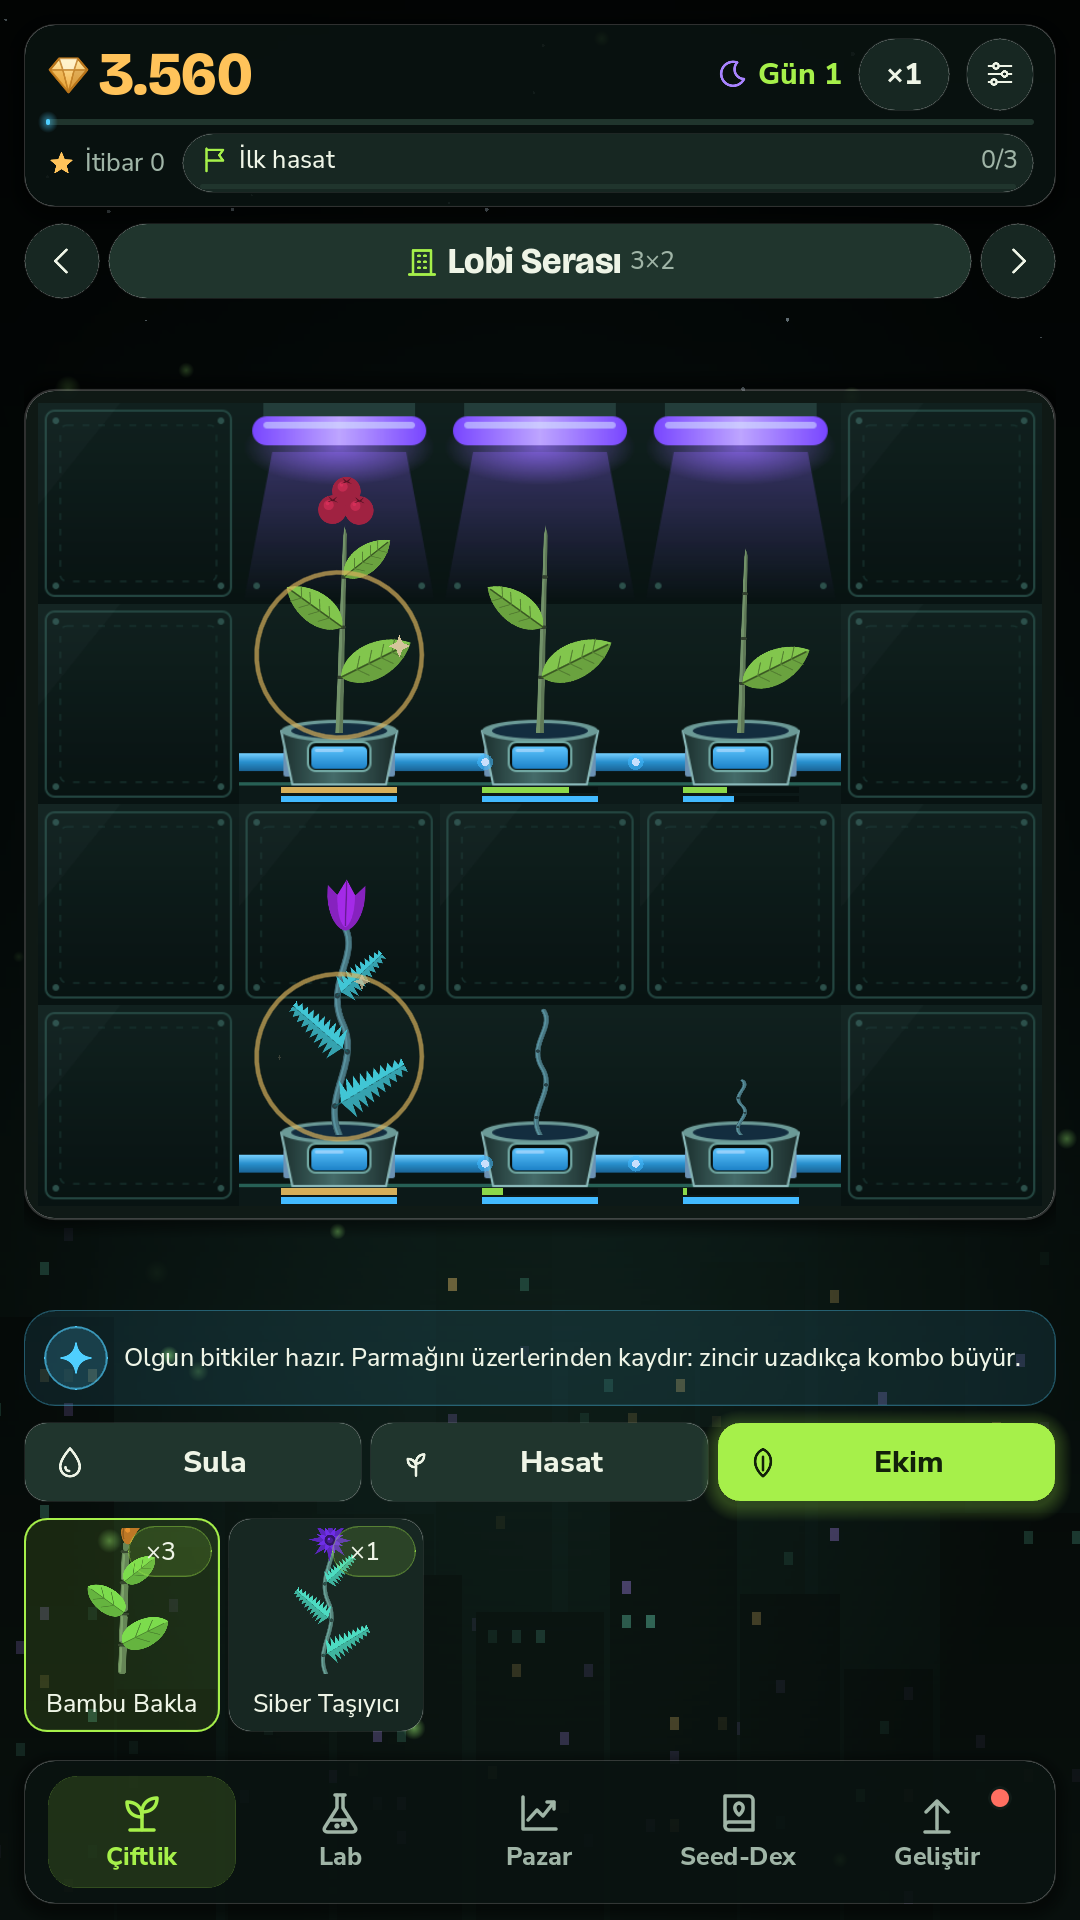
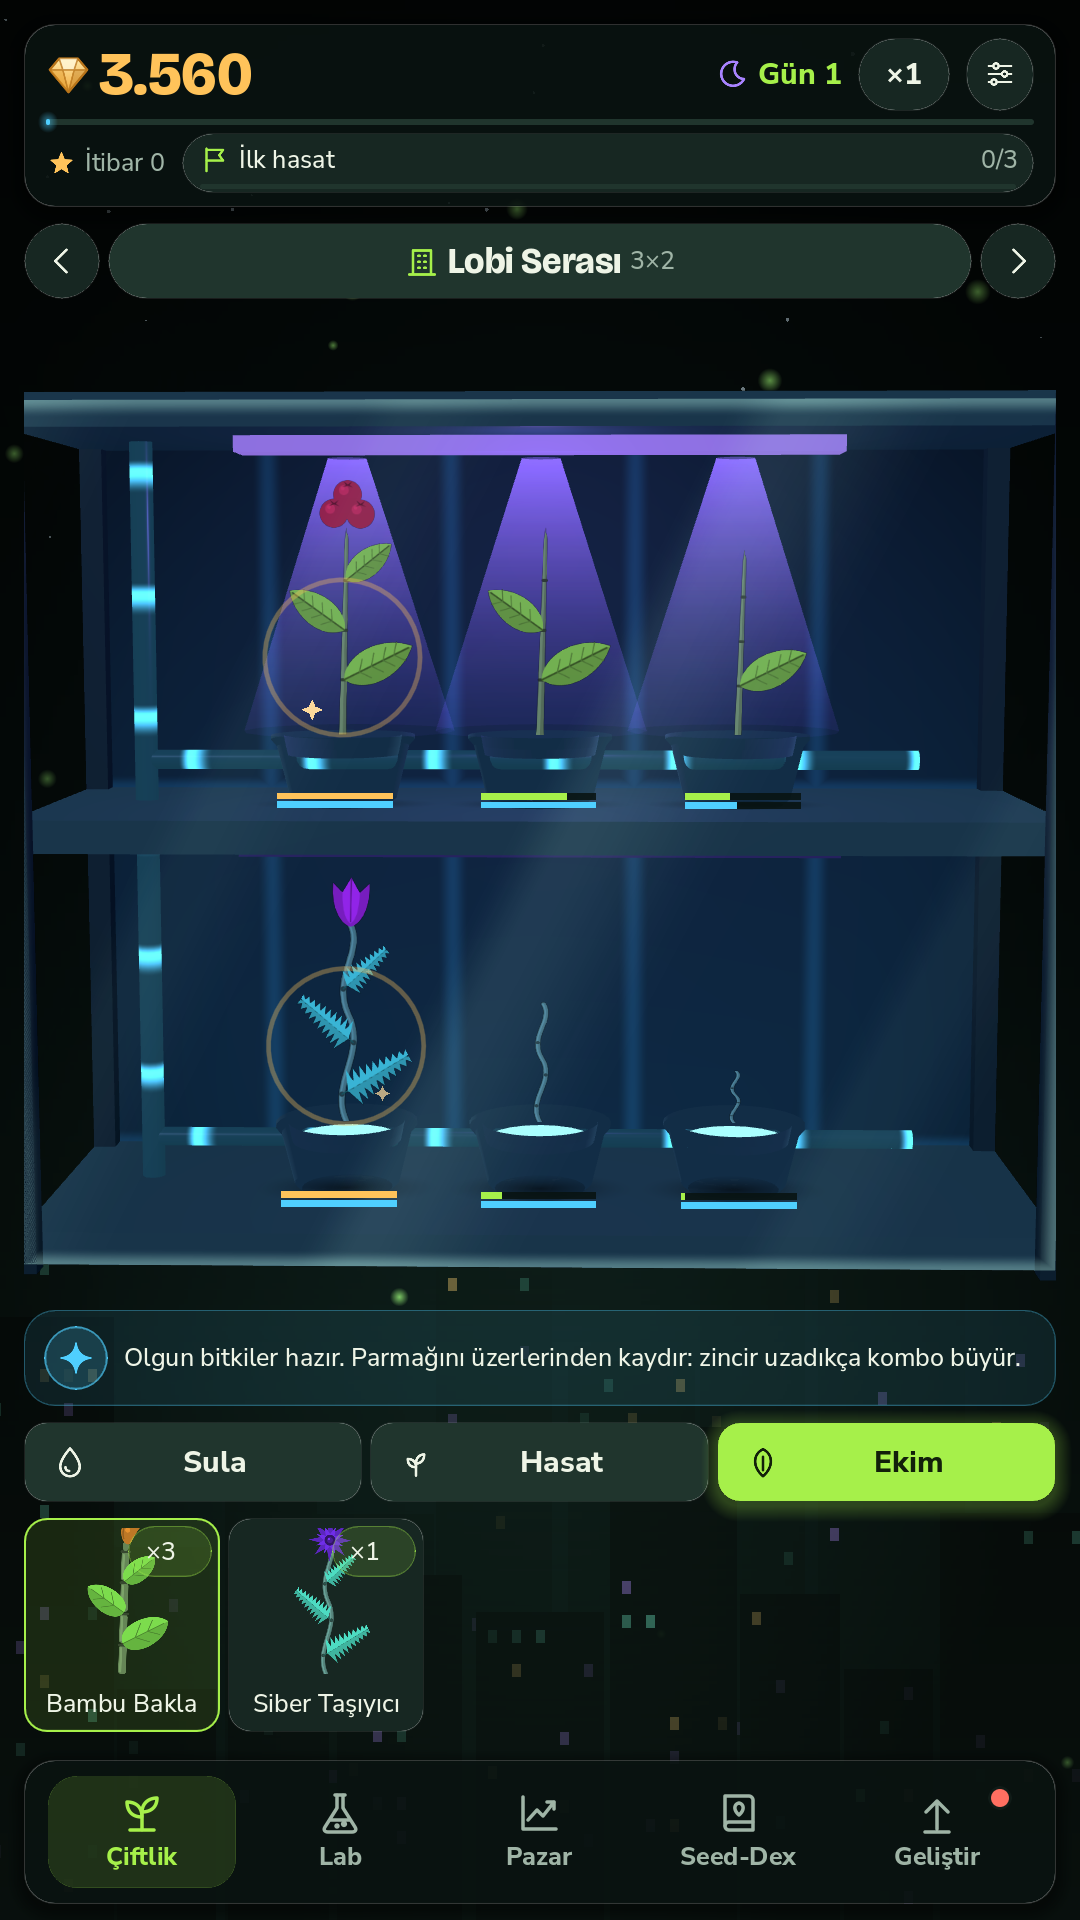
docs: 2.5D çiftlik kanıt kareleri (ara kayıt, seri sürüyor) ve README güncellemesi
Yeniden üretilen kareler (tr-farm, tr-tall-farm, renk körlüğü, hareketi azalt, vb.) ve yeni senaryolar için
yakalama betiği satırları. Kalan kareler seri bitince son kayıtta güncellenecek.

Design: design/design-language.md
Claude-Session: https://claude.ai/code/session_013ZaxZvaRMdf7SRdZhJwpiW

diff --git a/production/qa/evidence/ui-polish/README.md b/production/qa/evidence/ui-polish/README.md
@@ -1,6 +1,6 @@
 # Arayüz cila turu: görsel kanıt
 
-Kapsanan iş: tasarım dili ("Gece Serası", `design/design-language.md`), yeni yazı tipleri ve ikon seti, Türkçe + İngilizce, gün-gece manzarası, yeniden
+Kapsanan iş: 2.5D çiftlik sahnesi (3D geometri + perspektif kamera + ışık), tasarım dili ("Gece Serası", `design/design-language.md`), yeni yazı tipleri ve ikon seti, Türkçe + İngilizce, gün-gece manzarası, yeniden
 tasarlanan HUD / gezinme / çiftlik / lab / pazar / Seed-Dex / geliştir / ayarlar / hedefler / açılış kartı / çevrimdışı özeti. Hikâye dosyası yok
 (`minimal` kip): tasarım kaydı `design/game-brief.md` ve `design/design-language.md`, mimari `docs/architecture/floralab-architecture.md`.
 
@@ -14,7 +14,10 @@ Gerçek çizimle (başsız değil), GL Compatibility, `--write-movie` 75. karesi
 
 | Dosya | Ne gösteriyor |
 |---|---|
-| `tr-farm`, `en-farm` | Çiftlik: cam çerçeveli ızgara, akan sulama damlacıkları, olgun bitkide halka + ışıltı, FLORA ipucu, Sula/Hasat/Ekim, tohum tepsisi, hedef çipi |
+| `tr-farm`, `en-farm` | Çiftlik (2.5D sahne): cam kutu, raflar, torna profilli saksılar, akan sulama borusu, UV lambası huzmeleri, olgun bitkide halka + ışıltı, FLORA ipucu, Sula/Hasat/Ekim, tohum tepsisi, hedef çipi |
+| `tr-farm-day` | Aynı sahne gündüz ışığında (sıcak ortam ışığı, açık duvar) |
+| `en-farm-drones` | Hasat dronları: üs pedi, uçan dron, hasat parlaması ve kombo efektleri |
+| `tr-farm-tower` | 4×4 çatı katı: dört bölmeli kule, perspektif, UV lambaları |
 | `tr-lab`, `en-lab` | Lab: iki ebeveyn "kavanozu", DNA simgesi, çaprazlama düğmesi (fiyat çipli), FLORA ipucu |
 | `tr-market`, `en-market` | Pazar: fiyat tablosu (mini grafik + yüzde), borsa haberleri, ürün satırları, VIP sipariş biletleri |
 | `tr-dex`, `en-dex` | Seed-Dex: tamamlanma halkası, nadirlik çerçeveli kartlar, kilitli yer tutucular |
@@ -45,7 +48,10 @@ Gerçek çizimle (başsız değil), GL Compatibility, `--write-movie` 75. karesi
 8. **Görüntülerden bulunan iki kusur:** (a) HUD'daki yüzen "+N" kazancı, sayı hâlâ sayarken sayının üstüne biniyordu ("+4000" ile "4.160" iç içe); `CreditTag.final_width()` ile yan tarafa konuyor
    (`credit_tag_test.gd`, düzeltmeden önce başarısız görüldü). (b) Pazar'daki haber kartı etkin olayı hem ayrıntılı satırla hem "geçmiş" listesinde iki kez gösteriyordu;
    geçmiş artık yalnızca bitmiş olayları anıyor (`test_the_news_card_shows_an_active_headline_once_not_again_as_history`, düzeltmeden önce başarısız görüldü).
-9. **Sessiz oyun:** efektlerin altında çok alçak, dikişsiz bir sera uğultusu döngüsü eklendi (ses ayarına bağlı; `audio_service_ambience_test.gd`). Görüntüde görünmez.
+9. **2.5D çiftlik: görüntüden bulunanlar.** (a) Toplamalı UV huzmesi bitkinin önünde çizilince yaprakları soluk gri gösteriyordu (mor ekleme); huzme sıralamada bitkinin arkasına alındı.
+   (b) Compatibility'de gölgelendirilmemiş `ALBEDO` doğrudan gösterim değeri: 0.5 yazıp 128 okundu, atlas dokusunda renk uzayı çevirisi gerekmedi (önce yanlışlıkla çeviri eklenip bitkiler koyulaşmıştı).
+   (c) Saksılar ve raflar siyahtı (metalik malzeme + yansıma yok): metaliklik düşürülüp ortam ışığı artırıldı.
+10. **Sessiz oyun:** efektlerin altında çok alçak, dikişsiz bir sera uğultusu döngüsü eklendi (ses ayarına bağlı; `audio_service_ambience_test.gd`). Görüntüde görünmez.
 
 ## Bu görüntüler neyi kapsar, neyi kapsamaz
 
@@ -60,5 +66,7 @@ Gerçek çizimle (başsız değil), GL Compatibility, `--write-movie` 75. karesi
 bash .claude/scripts/review-receipts.sh hash src/ui/main.gd src/ui/common/ui_tokens.gd src/ui/common/ui_theme.gd src/ui/common/ui_kit.gd src/ui/common/price_button.gd \
   src/ui/common/nav_bar.gd src/ui/common/night_backdrop.gd src/ui/hud/hud_bar.gd src/ui/panels/farm_panel.gd src/ui/panels/lab_panel.gd src/ui/panels/market_panel.gd \
   src/ui/panels/dex_panel.gd src/ui/panels/upgrades_panel.gd src/ui/panels/settings_overlay.gd src/ui/panels/goals_overlay.gd src/ui/farm/farm_view.gd \
-  src/ui/common/credit_tag.gd src/ui/common/toast_layer.gd src/ui/audio/audio_service.gd src/ui/audio/sfx_bank.gd src/dev/ui_showcase.gd > production/qa/evidence/ui-polish/stamp.txt
+  src/ui/farm/farm_view.gd src/ui/farm/farm_stage.gd src/ui/farm/farm_stage_parts.gd src/ui/farm/plant_atlas.gd src/ui/farm/pot_overlay.gd \
+  assets/shaders/spatial_plant_billboard.gdshader assets/shaders/spatial_wall.gdshader assets/shaders/spatial_pipe_flow.gdshader assets/shaders/spatial_glass.gdshader \
+  assets/shaders/spatial_uv_beam.gdshader assets/shaders/spatial_plant_halo.gdshader src/ui/common/credit_tag.gd src/ui/common/toast_layer.gd src/ui/audio/audio_service.gd src/ui/audio/sfx_bank.gd src/dev/ui_showcase.gd > production/qa/evidence/ui-polish/stamp.txt
 ```
